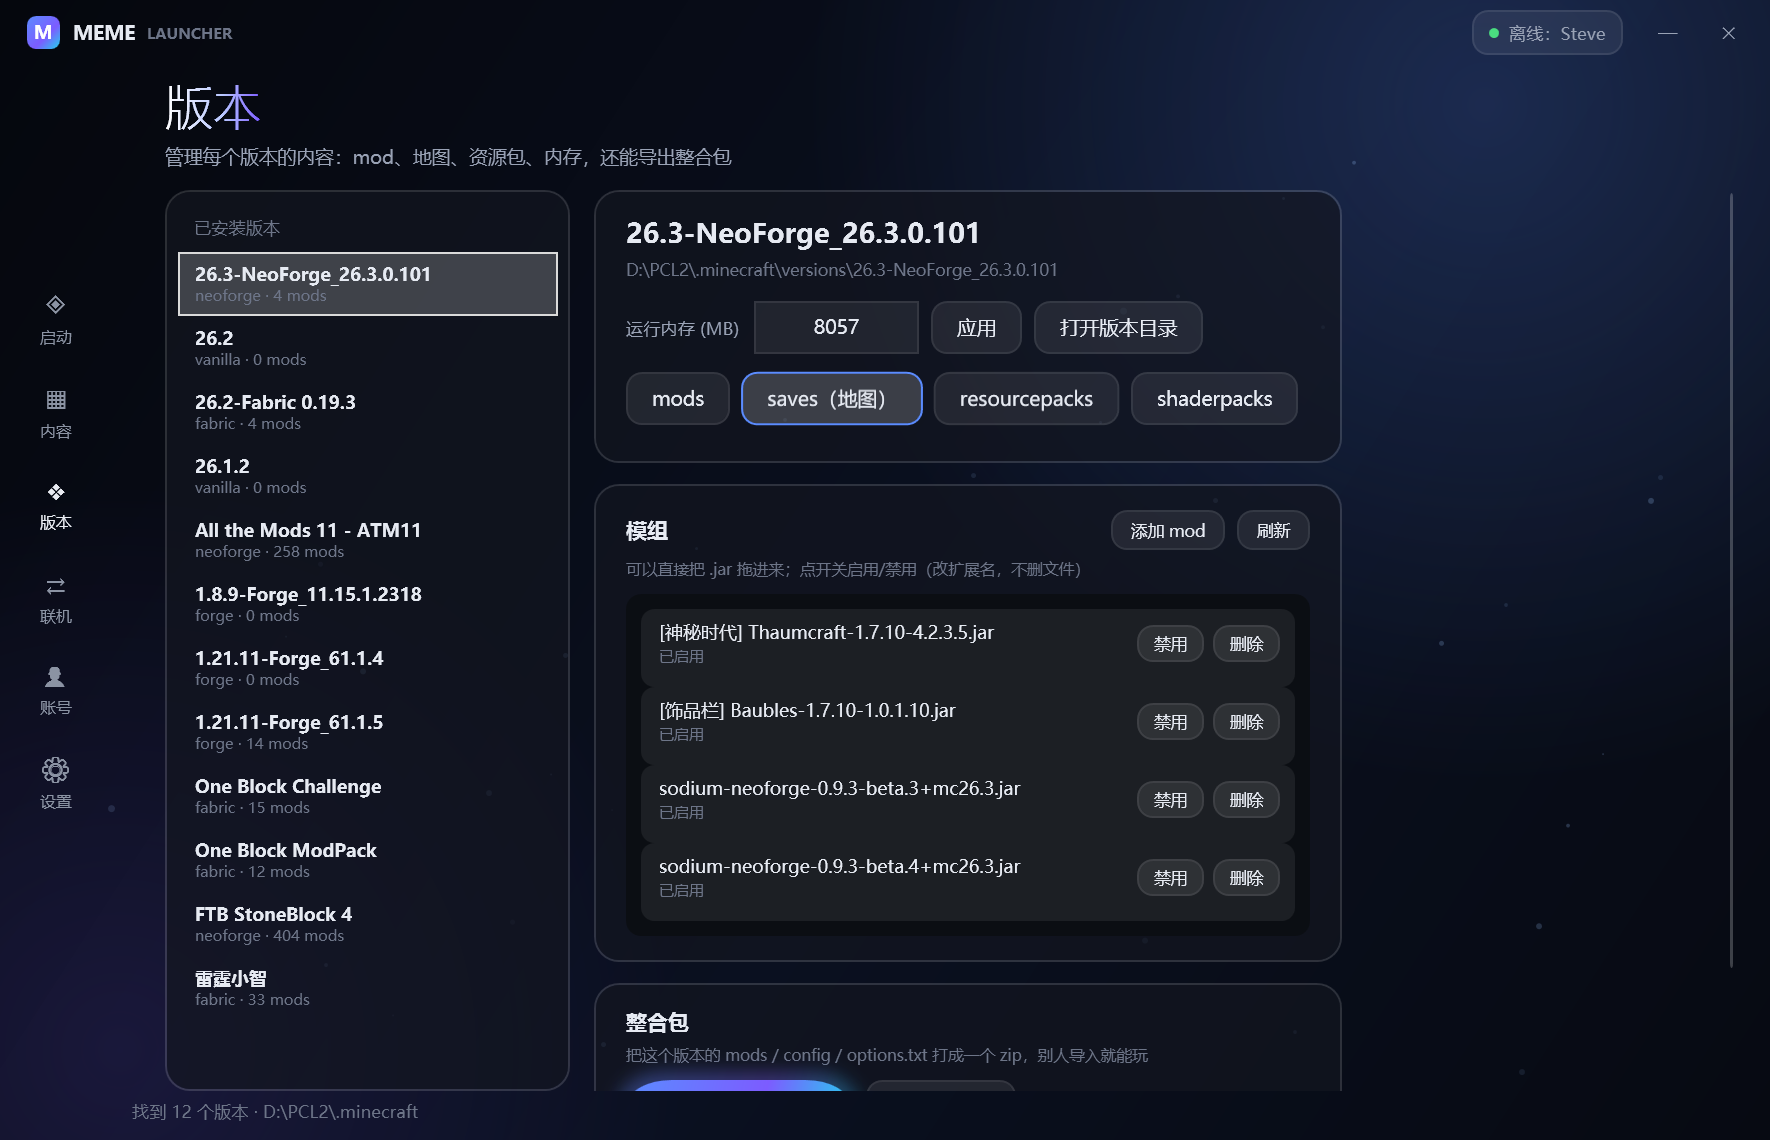
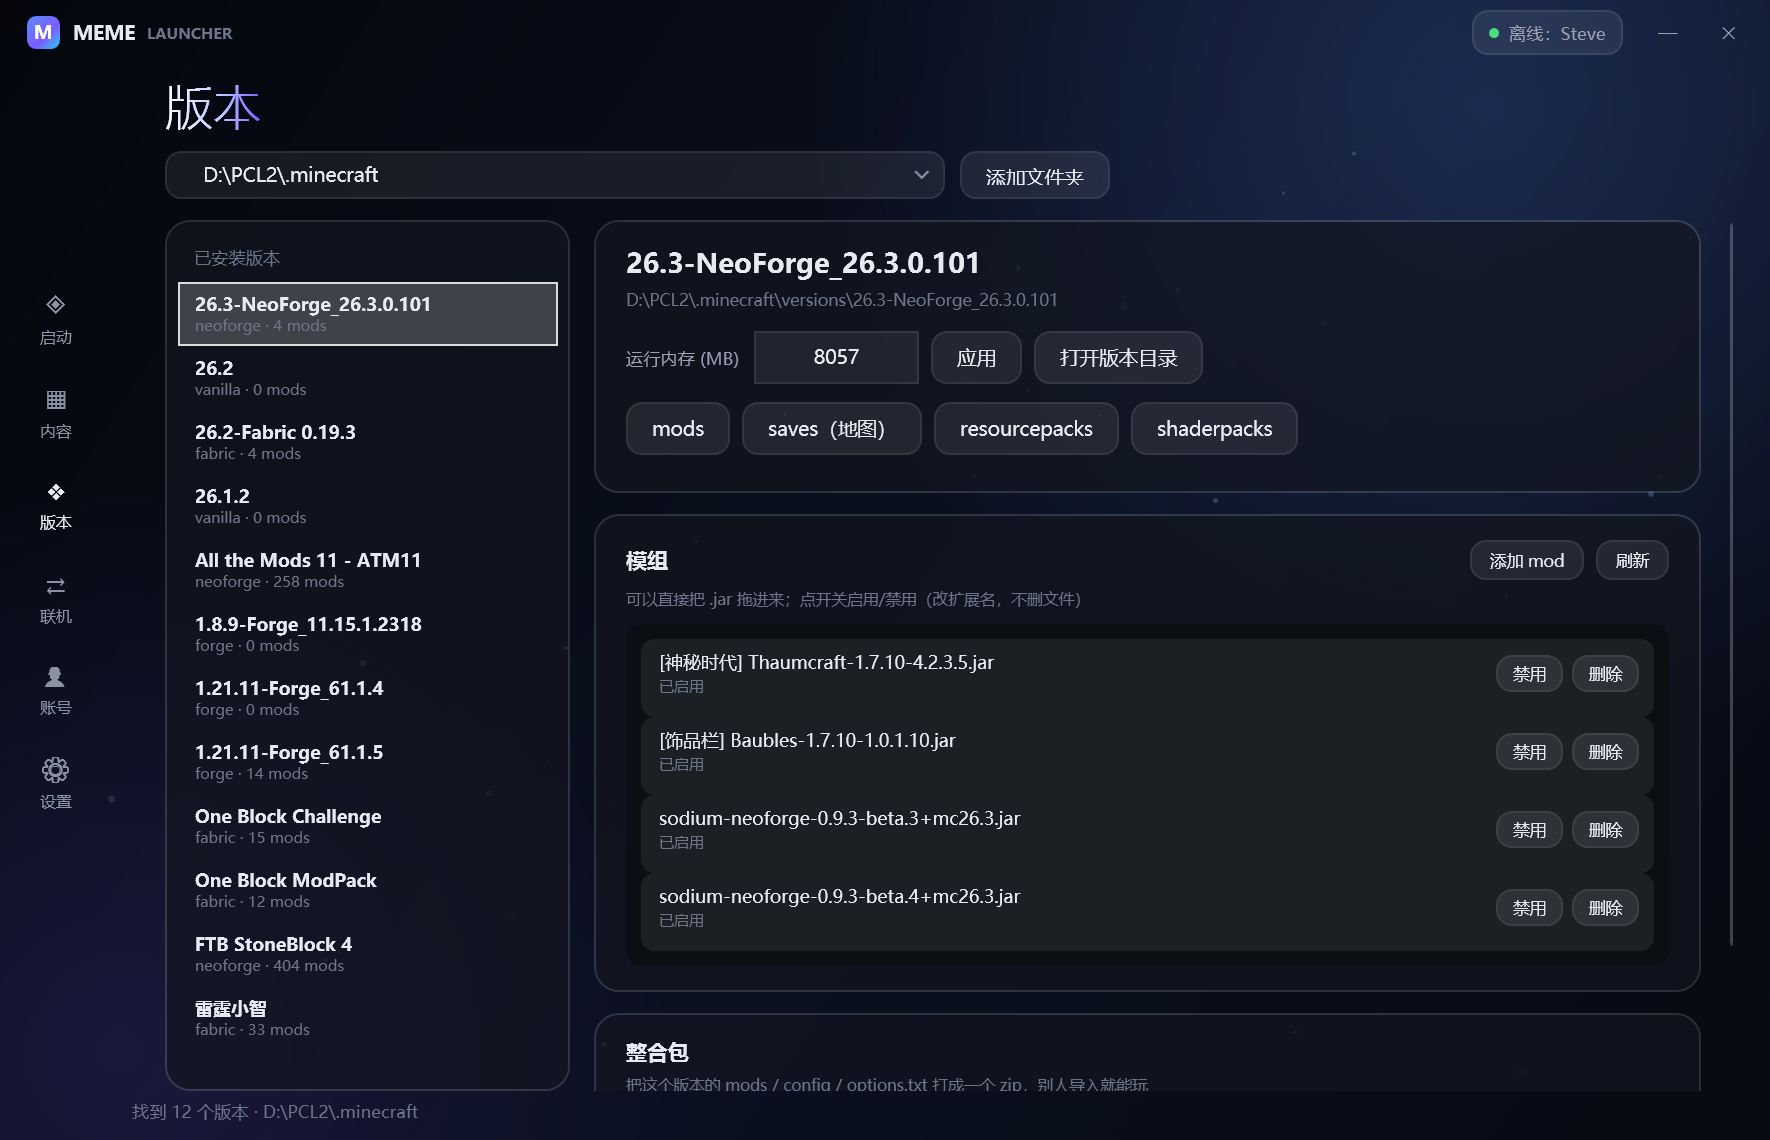
feat: 版本页支持多游戏目录切换；mod 列表滚动；首页加版本管理/导入整合包入口

diff --git a/src/Aurora.App/MainWindow.xaml b/src/Aurora.App/MainWindow.xaml
@@ -557,8 +557,16 @@
 
                         <!-- 版本轮播 -->
                         <StackPanel Grid.Row="2" Margin="26,0,0,6">
-                            <TextBlock Text="全部版本" FontSize="10.5" Foreground="{StaticResource InkFaint}"
-                                       FontWeight="SemiBold" Margin="0,0,0,8"/>
+                            <Grid Margin="0,0,0,8">
+                                <TextBlock Text="全部版本" FontSize="10.5" Foreground="{StaticResource InkFaint}"
+                                           FontWeight="SemiBold" VerticalAlignment="Center"/>
+                                <StackPanel Orientation="Horizontal" HorizontalAlignment="Right">
+                                    <Button Content="版本管理" Style="{StaticResource GlassButton}" Padding="12,4" FontSize="11"
+                                            Click="OnOpenVersionManager"/>
+                                    <Button Content="导入整合包" Style="{StaticResource GlassButton}" Padding="12,4" FontSize="11"
+                                            Margin="8,0,0,0" Click="OnImportPackHome"/>
+                                </StackPanel>
+                            </Grid>
                             <ListBox x:Name="VersionList" Background="Transparent" BorderThickness="0" Height="88" PreviewMouseWheel="OnVersionWheel"
                                      ItemContainerStyle="{StaticResource VersionTile}"
                                      ScrollViewer.HorizontalScrollBarVisibility="Hidden"
@@ -910,8 +918,14 @@
                         <StackPanel Grid.Row="0" Margin="26,6,0,14">
                             <TextBlock Text="版本" FontSize="32" FontFamily="{StaticResource FontHead}"
                                        Foreground="{StaticResource TitleGrad}"/>
-                            <TextBlock Text="管理每个版本的内容：mod、地图、资源包、内存，还能导出整合包"
-                                       FontSize="12.5" Foreground="{StaticResource InkDim}" Margin="0,6,0,0"/>
+                            <Grid Margin="0,10,0,0">
+                                <StackPanel Orientation="Horizontal">
+                                    <ComboBox x:Name="VmDirCombo" Width="520" Height="32"
+                                              SelectionChanged="OnVmDirChanged"/>
+                                    <Button Content="添加文件夹" Style="{StaticResource GlassButton}" Height="32" Margin="10,0,0,0"
+                                            Click="OnVmAddDir"/>
+                                </StackPanel>
+                            </Grid>
                         </StackPanel>
 
                         <Grid Grid.Row="1" Margin="26,0,0,0">
@@ -941,7 +955,7 @@
                             </Border>
 
                             <ScrollViewer Grid.Column="1" Margin="16,0,0,0" VerticalScrollBarVisibility="Auto">
-                                <StackPanel MaxWidth="860" HorizontalAlignment="Left">
+                                <StackPanel HorizontalAlignment="Stretch" Margin="0,0,16,0">
 
                                     <Border CornerRadius="16" Background="{StaticResource Glass}"
                                             BorderBrush="{StaticResource GlassLine}" BorderThickness="1" Padding="20,16">
@@ -992,9 +1006,11 @@
                                             <TextBlock Text="可以直接把 .jar 拖进来；点开关启用/禁用（改扩展名，不删文件）"
                                                        FontSize="10.5" Foreground="{StaticResource InkFaint}" Margin="0,6,0,10"/>
 
-                                            <Border CornerRadius="10" Background="#0B0E13" Padding="10" MinHeight="220"
+                                            <Border CornerRadius="10" Background="#0B0E13" Padding="10"
                                                     AllowDrop="True" Drop="OnVmModsDrop" DragOver="OnVmModsDragOver">
-                                                <StackPanel x:Name="VmModList"/>
+                                                <ScrollViewer MaxHeight="330" VerticalScrollBarVisibility="Auto">
+                                                    <StackPanel x:Name="VmModList"/>
+                                                </ScrollViewer>
                                             </Border>
                                         </StackPanel>
                                     </Border>

diff --git a/src/Aurora.App/MainWindow.xaml.cs b/src/Aurora.App/MainWindow.xaml.cs
@@ -31,7 +31,7 @@ public partial class MainWindow : Window
     private List<RemoteVersion> _mcVersions = new();
     private ContentItem? _selectedContent;
     private CancellationTokenSource? _loginCts;
-    private const string AppVersion = "0.9.1";
+    private const string AppVersion = "0.9.2";
     private bool _updatesLoaded;
     private ReleaseInfo? _pendingRelease;
     private readonly SakuraFrp _tunnel = new();
@@ -800,8 +800,16 @@ public partial class MainWindow : Window
 
     private void InitVersionManager()
     {
-        if (_vmLoaded || VmVersionList == null)
+        if (VmVersionList == null)
         {
+            return;
+        }
+
+        RefreshVmDirs();
+
+        if (_vmLoaded)
+        {
+            ReloadVmVersions();
             return;
         }
 
@@ -822,6 +830,146 @@ public partial class MainWindow : Window
         {
             VmVersionList.SelectedIndex = 0;
         }
+    }
+
+    private void RefreshVmDirs()
+    {
+        if (VmDirCombo == null)
+        {
+            return;
+        }
+
+        var dirs = new List<string>();
+        void Add(string? dir)
+        {
+            if (!string.IsNullOrWhiteSpace(dir) && Directory.Exists(dir) && !dirs.Contains(dir))
+            {
+                dirs.Add(dir);
+            }
+        }
+
+        Add(_settings.GameDirectory);
+        foreach (var dir in _settings.KnownGameDirs)
+        {
+            Add(dir);
+        }
+
+        var selected = _settings.GameDirectory;
+        VmDirCombo.ItemsSource = dirs;
+        VmDirCombo.SelectedItem = dirs.FirstOrDefault(d => string.Equals(d, selected, StringComparison.OrdinalIgnoreCase))
+                                  ?? dirs.FirstOrDefault();
+    }
+
+    private void OnVmAddDir(object sender, RoutedEventArgs e)
+    {
+        var dialog = new System.Windows.Forms.FolderBrowserDialog
+        {
+            Description = "选择一个 .minecraft 文件夹（里面要有 versions）",
+            UseDescriptionForTitle = true,
+            SelectedPath = _settings.GameDirectory,
+        };
+
+        if (dialog.ShowDialog() != System.Windows.Forms.DialogResult.OK)
+        {
+            return;
+        }
+
+        var dir = dialog.SelectedPath;
+        if (!Directory.Exists(Path.Combine(dir, "versions")))
+        {
+            VmStatus.Text = "这个文件夹里没有 versions 子目录，可能不是 .minecraft";
+        }
+
+        if (!_settings.KnownGameDirs.Contains(dir))
+        {
+            _settings.KnownGameDirs.Add(dir);
+            ConfigStore.Save(_settings);
+        }
+
+        RefreshVmDirs();
+        VmDirCombo.SelectedItem = dir;
+    }
+
+    private void OnVmDirChanged(object sender, SelectionChangedEventArgs e)
+    {
+        if (VmDirCombo?.SelectedItem is not string dir || string.IsNullOrEmpty(dir))
+        {
+            return;
+        }
+
+        if (string.Equals(dir, _settings.GameDirectory, StringComparison.OrdinalIgnoreCase))
+        {
+            ReloadVmVersions();
+            return;
+        }
+
+        try
+        {
+            _service.SetGameDirectory(dir);
+            _mcVersions.Clear();
+            ReloadVmVersions();
+            RefreshVersionCards();
+            VmStatus.Text = "已切换到 " + dir;
+        }
+        catch (Exception ex)
+        {
+            VmStatus.Text = "切换目录失败: " + ex.Message;
+        }
+    }
+
+    private void ReloadVmVersions()
+    {
+        if (VmVersionList == null)
+        {
+            return;
+        }
+
+        var items = _service.ListVersions()
+            .Where(v => v.IsUsable)
+            .OrderByDescending(v => v.ClientVersion, StringComparer.OrdinalIgnoreCase)
+            .Select(v => new VmVersionItem
+            {
+                Id = v.Id,
+                RawId = v.Id,
+                Subtitle = $"{v.Loader} · {v.ModCount} mods",
+            })
+            .ToList();
+
+        VmVersionList.ItemsSource = items;
+        if (items.Count > 0)
+        {
+            VmVersionList.SelectedIndex = 0;
+        }
+        else
+        {
+            VmTitle.Text = "这个目录里没有可用版本";
+            VmModList.Children.Clear();
+        }
+    }
+
+    private void RefreshVersionCards()
+    {
+        try
+        {
+            var versions = _service.ListVersions().Where(v => v.IsUsable).ToList();
+            VersionList.ItemsSource = versions.Select(v => new VersionCard(v)).ToList();
+            if (VersionList.Items.Count > 0)
+            {
+                VersionList.SelectedIndex = 0;
+            }
+        }
+        catch
+        {
+            // 忽略
+        }
+    }
+
+    private void OnOpenVersionManager(object sender, RoutedEventArgs e) => SetPage(7);
+
+    private void OnImportPackHome(object sender, RoutedEventArgs e)
+    {
+        SetPage(7);
+        OnVmImportPack(sender, e);
     }
 
     private void OnVmVersionSelected(object sender, SelectionChangedEventArgs e)

diff --git a/src/Aurora.Core/LauncherService.cs b/src/Aurora.Core/LauncherService.cs
@@ -22,7 +22,7 @@ public sealed class LauncherService
 
     public LauncherSettings Settings { get; }
 
-    public VersionRepository Versions { get; }
+    public VersionRepository Versions { get; private set; }
 
     // ---------------- 账号 ----------------
 
@@ -188,6 +188,19 @@ public sealed class LauncherService
         var locator = new JavaLocator(roots);
         all = locator.Scan();
         return locator.Select(requiredMajor, all);
+    }
+
+    /// <summary>切换游戏目录（多 .minecraft 文件夹）。</summary>
+    public void SetGameDirectory(string directory)
+    {
+        if (string.IsNullOrWhiteSpace(directory) || !Directory.Exists(directory))
+        {
+            throw new InvalidOperationException("目录不存在: " + directory);
+        }
+
+        Settings.GameDirectory = directory;
+        ConfigStore.Save(Settings);
+        Versions = new VersionRepository(directory);
     }
 
     public List<VersionSummary> ListVersions() => Versions.Scan();

diff --git a/src/Aurora.Core/Configuration/LauncherSettings.cs b/src/Aurora.Core/Configuration/LauncherSettings.cs
@@ -49,6 +49,9 @@ public sealed class LauncherSettings
 
     public string YggdrasilName { get; set; } = string.Empty;
 
+    /// <summary>用过的游戏目录（版本管理页的文件夹下拉）。</summary>
+    public List<string> KnownGameDirs { get; set; } = new();
+
     /// <summary>每次安装内容前询问装到哪个目录。</summary>
     public bool AskInstallFolder { get; set; } = true;
 
